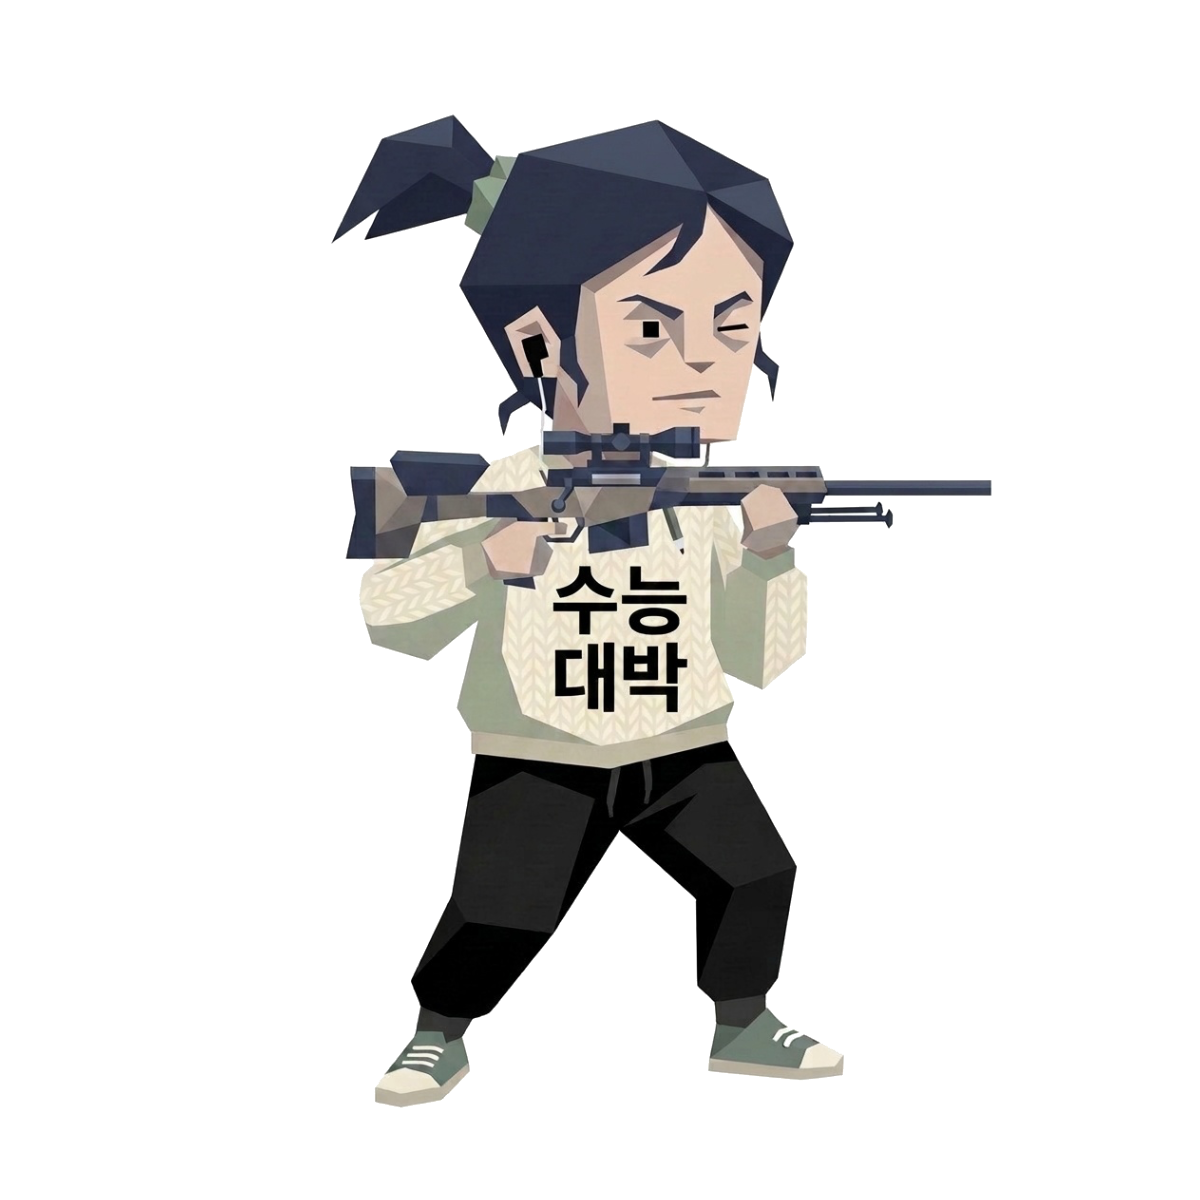
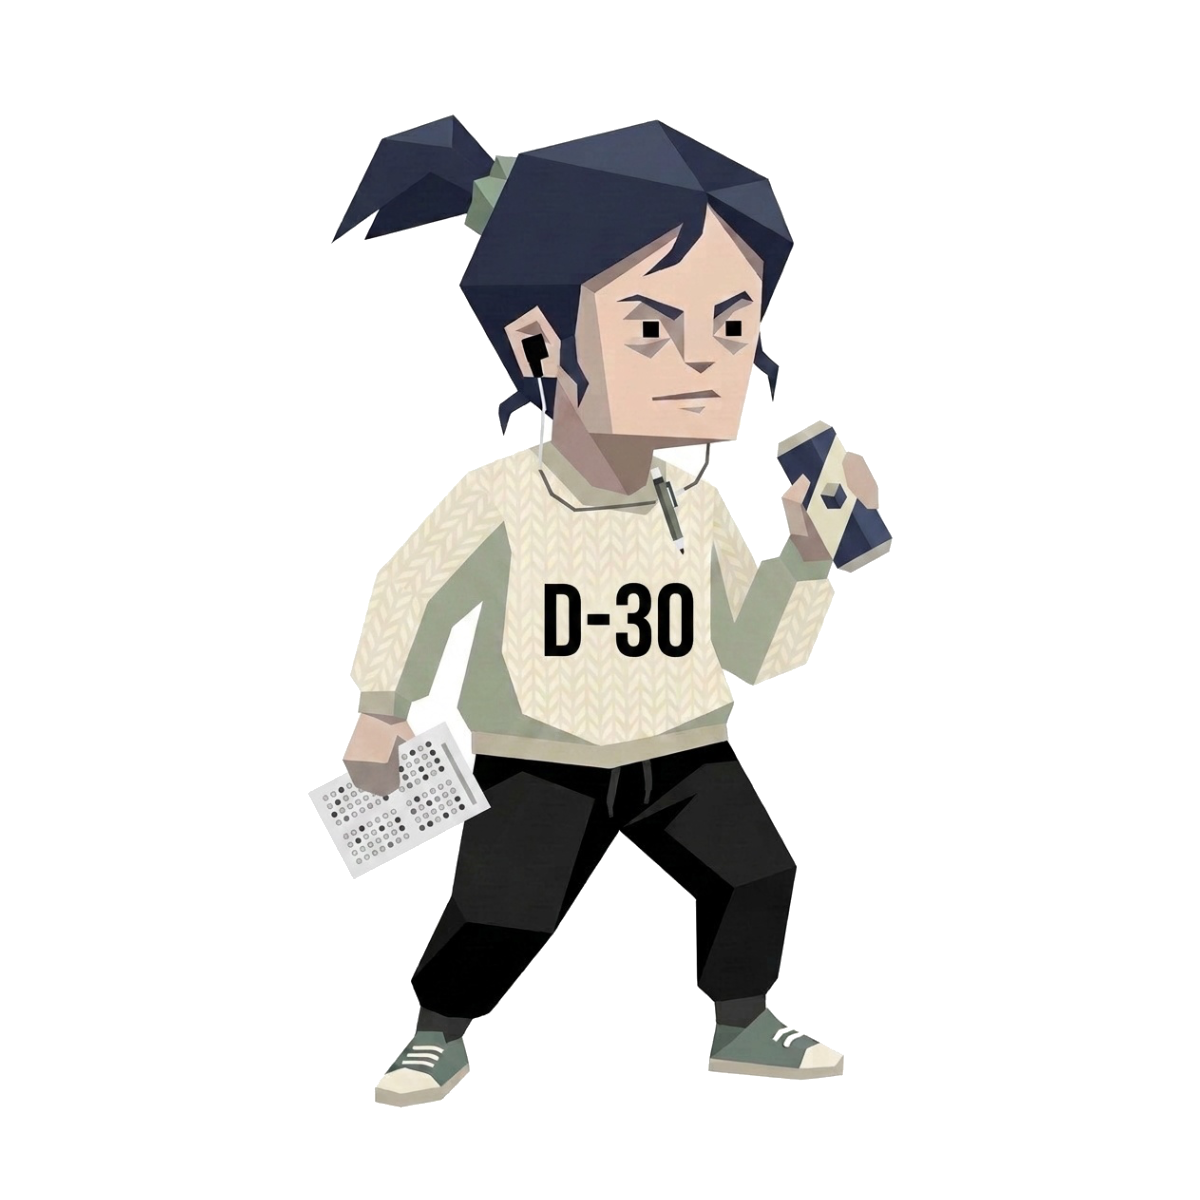
feat(aiming): Q4 문항 교체 + Q6를 결과에 실제로 반영, 정시 두 유형 이미지 정정
Q4를 "원서를 쓰고 나서 가장 후회할 것 같은 건?"으로 바꾸면서 선택지를
한 축 위의 정도 차이가 아니라 서로 다른 두 축의 기피로 재설계했다.
- a 우주상향으로 한 장 날리는 것 → 상향 회피 (agg 0 / floor +1)
- b 수능 잘봤는데 수시 납치되는 것 → 안정 회피 (agg +2 / floor -1)
- c 가고 싶던 대학에 한 번도 못 질러보는 것 → 상향 미련 (agg +4)

Q6(생기부)가 결과를 못 바꾸던 문제를 고쳤다. 전수 2187조합에서 Q6b와 Q6c의
유형 분포가 완전히 같았다(gyogwa 159 / standard 129 / essay 114) — 생기부가
아예 없는 사람도 `rec < MAX_REC`를 통과해 교과 정공법으로 왔기 때문이다.
생기부를 못 챙긴 학생은 내신도 같이 낮은 경우가 많아 교과의 대상이 아니다.
교과 조건을 `rec === 1`로 좁히고 Q6c에 agg +2를 줘서, 수시에 쓸 무기가 없으면
위로 지르고 정시로 받치는 쪽으로 가게 했다.

실측(전수 2187조합, Q6c 729조합 기준):
- 교과 정공법  159건 → 0건
- 정시 올인형   18건 → 87건
- 스나이퍼      48건 → 96건
- 논술 올인형   24건 → 69건
- 도전 저격형   87건 → 132건
10개 유형 최소 5.3% / 최대 15.1%, 배분 합 6 위반 0건.
사다리 임계값은 96가지 스윕에서 현행값이 최적이라 건드리지 않았다.

floor에 음수가 생기면서 공유 링크 `?f=-1`이 clamp 하한 0에 걸려 잘리던 문제도
같이 고쳤다(MIN_FLOOR 신설). 안 고치면 그 사람들의 링크·새로고침이 기본값 2로
떨어져 화면에서 봤던 배분과 달라진다.

정시 올인형과 정시 믿는 스나이퍼의 그림이 서로 바뀌어 있어 맞바꿨다.
OG 카드는 유형 이름이 이미지에 구워져 있어 그림 패널(41,41)-(538,588)만 교환했다.

Claude-Session: https://claude.ai/code/session_017Sz2DNCJQe2oo6HqaVsxgr

Changed region(s): [[0.2467, 0.3392, 0.8325, 0.74], [0.5858, 0.2467, 0.6167, 0.3083]]

diff --git a/src/data/aimingStrategy.ts b/src/data/aimingStrategy.ts
@@ -77,7 +77,11 @@ export type Mix = Record<TierKey, number>;
    칸을 쪼개는 일이 아니라 **축을 늘리는 일**이다.
 
    ⚠ agg와 floor는 반드시 분리한다. "안 갈 곳은 쓰기 싫다"가 공격성을 올리면
-   정시도 약하고 안정권도 못 쓰는 가장 위험한 학생이 공격형으로 분류된다. */
+   정시도 약하고 안정권도 못 쓰는 가장 위험한 학생이 공격형으로 분류된다.
+
+   📌 floor는 **음수도 준다**(Q4b 수시 납치). 안정을 "덜 받아들인다"는 답이 있어야
+   Q2 하나로만 안정 장수가 정해지는 걸 막을 수 있다. MAX_FLOOR는 선택지별 최댓값의
+   합이라 음수를 넣어도 6으로 유지된다. */
 
 export type Option = {
   id: string;
@@ -132,11 +136,17 @@ export const QUESTIONS: Question[] = [
   },
   {
     id: "q4",
-    text: "6장을 쓸 때 어느 쪽이 더 아까울 것 같나요?",
+    /* ⚠ 세 선택지가 한 줄 위에 놓인 정도 차이가 아니다.
+       a는 **상향 회피**(agg를 안 올린다), b는 **안정 회피**(floor를 깎는다),
+       c는 **상향 미련**(agg 최대)이다. a와 b는 방향이 반대인 두 축의 기피라서
+       가운데 칸을 "반반"으로 두던 예전 문항보다 답이 갈린다. */
+    text: "원서를 쓰고 나서 가장 후회할 것 같은 건?",
     options: [
-      { id: "a", label: "안 될 곳에 써서 한 장 버리는 것", agg: 0, floor: 1, intv: 0, gyo: 0, rec: 0 },
-      { id: "b", label: "반반이에요", agg: 2, floor: 0, intv: 0, gyo: 0, rec: 0 },
-      { id: "c", label: "내가 정말 가고 싶은 곳에 원서 못 넣고 후회하는 것", agg: 4, floor: 0, intv: 0, gyo: 0, rec: 0 },
+      { id: "a", label: "우주상향으로 가능성 낮은 데 질러서\n한 장 날리는 것", agg: 0, floor: 1, intv: 0, gyo: 0, rec: 0 },
+      /* 수시 납치가 무섭다 = 안정권에 붙어서 정시 길이 막히는 게 싫다는 뜻이다.
+         공격성보다 **안정 수용도(floor)를 깎는 답**이라 floor를 음수로 준다. */
+      { id: "b", label: "수능 잘봤는데 수시 납치되는 것", agg: 2, floor: -1, intv: 0, gyo: 0, rec: 0 },
+      { id: "c", label: "가고 싶던 대학에 한 번도 못 질러보는 것", agg: 4, floor: 0, intv: 0, gyo: 0, rec: 0 },
     ],
   },
   {
@@ -154,7 +164,11 @@ export const QUESTIONS: Question[] = [
     options: [
       { id: "a", label: "3년 동안 꾸준히 쌓아왔어요", agg: 0, floor: 0, intv: 0, gyo: 0, rec: 2 },
       { id: "b", label: "보통은 하는 것 같아요", agg: 0, floor: 0, intv: 0, gyo: 0, rec: 1 },
-      { id: "c", label: "딱히 내세울 게 없어요..ㅜ", agg: 0, floor: 0, intv: 0, gyo: 0, rec: 0 },
+      /* ⚠ 생기부를 못 챙긴 학생은 내신도 같이 낮은 경우가 많다. 그래서 이 답은
+         "교과로 안전하게 간다"가 아니라 **수시에 쓸 무기가 없다**는 신호로 읽는다.
+         수시로 확보할 게 없으면 위로 지르고 정시로 받치는 쪽이 맞아서 agg를 올린다.
+         (교과 갈래에서 빼는 처리는 decideType ④에 있다) */
+      { id: "c", label: "딱히 내세울 게 없어요..ㅜ", agg: 2, floor: 0, intv: 0, gyo: 0, rec: 0 },
     ],
   },
   {
@@ -174,6 +188,12 @@ const maxOf = (key: "agg" | "floor" | "intv" | "gyo" | "rec") =>
 
 export const MAX_AGG = maxOf("agg");
 export const MAX_FLOOR = maxOf("floor");
+/** floor 최솟값. Q4b가 floor를 깎으므로 **음수가 될 수 있다**.
+ *  공유 링크(`?f=`)를 0 이상으로만 받으면 이 사람들의 배분이 링크에서 되살아나지 않는다. */
+export const MIN_FLOOR = QUESTIONS.reduce(
+  (s, q) => s + Math.min(...q.options.map((o) => o.floor)),
+  0
+);
 export const MAX_INTV = maxOf("intv");
 export const MAX_GYO = maxOf("gyo");
 export const MAX_REC = maxOf("rec");
@@ -527,7 +547,9 @@ export function decideType(
 
   /* ① 올인 — 공격성이 최상위. 논술 여력이 만점이면 논술 올인, 아니면 정시 올인
      ⚠ 경계를 10 → 9로 낮췄다. 10에서는 전수 2187조합 중 45개(2%)만 도달해서
-     사실상 아무도 못 보는 유형이었다. */
+     사실상 아무도 못 보는 유형이었다.
+     ⚠ Q6c에 agg +2를 준 뒤 MAX_AGG가 11 → 13이 됐지만 경계는 9로 **그대로 둔다.**
+     재실측: 9면 정시올인 5.6% / 논술올인 5.3%, 10이면 둘 다 2.7%로 다시 죽는다. */
   if (agg >= 9) return intv >= MAX_INTV ? byId("essayAllIn") : byId("jungsiAllIn");
 
   /* ② 논술 병행 — 대학별고사 여력이 만점이고 위로 갈 의사도 있을 때 */
@@ -538,12 +560,17 @@ export function decideType(
      무기가 둘 다 있으면 학종 쪽이 더 유리하다. */
   if (rec >= MAX_REC && agg >= 2 && agg <= 5) return byId("hakjong");
 
-  /* ④ 교과 정공법 — 내신이 확실히 강하고, 생기부가 최강은 아니고, 위로 크게 지르지 않을 때.
+  /* ④ 교과 정공법 — 내신이 확실히 강하고, 생기부는 중간이고, 위로 크게 지르지 않을 때.
      ⚠ 전엔 `agg >= 1` 하한이 있었는데, 그러면 **내신이 가장 강하면서 올해 꼭 끝내야 하는 사람**
      (Q7a가 agg를 -2 깎는다)이 교과형에 못 왔다. 교과 정공법의 전형적인 대상이라 하한을 없앴다.
-     ⚠ `rec < MAX_REC` 조건이 없으면 이 갈래가 전체의 22%를 먹어버린다(전수 실측).
+     ⚠ 전엔 `rec < MAX_REC`(생기부가 최강만 아니면)였는데, 그러면 **생기부가 아예 없는 사람도
+     교과로 왔다.** 생기부를 못 챙긴 학생은 내신도 같이 낮은 경우가 많아서 교과 정공법의
+     대상이 아니다. 실제로 전수 2187조합에서 Q6b와 Q6c의 결과 분포가 완전히 같았다
+     (gyogwa 159 / standard 129 / essay 114) — 질문을 넣어놓고 답을 안 쓰던 셈이다.
+     그래서 `rec === 1`로 좁혀 Q6를 a=학종 / b=교과 / c=사다리로 완전히 가른다.
+     ⚠ 조건을 느슨하게 두면 이 갈래가 전체의 22%를 먹어버린다(전수 실측).
      질문 하나(3지선다)가 곧 33%라, 무기 갈래는 조건을 두 개 이상 걸어야 한다. */
-  if (gyo >= MAX_GYO && rec < MAX_REC && agg <= 4) return byId("gyogwa");
+  if (gyo >= MAX_GYO && rec === 1 && agg <= 4) return byId("gyogwa");
 
   /* ⑤ 공격성 사다리 */
   if (agg <= 1) return byId("safe");
@@ -552,8 +579,8 @@ export function decideType(
 
   /* 정시 믿는 스나이퍼 — 공격성이 최상위이거나, 7이면서 대학별고사에 쓸 여력이 거의 없을 때.
      ⚠ agg 7은 도전 저격형과 겹치는 구간이다. 정수 경계로만 자르면 이 유형이 agg 8 하나에
-     묶여 4.1%밖에 안 나오고, 7까지 열면 9.4%로 튄다(전수 실측). 그래서 겹치는 구간을
-     **대학별고사 여력**으로 가른다 — 상향을 논술·면접으로 받칠 수 있으면 도전 저격형,
+     묶여 5.8%밖에 안 나오고, 7까지 열면 12.6%로 튄다(2026-09-08 재실측, 현재 8.8%).
+     그래서 겹치는 구간을 **대학별고사 여력**으로 가른다 — 상향을 논술·면접으로 받칠 수 있으면 도전 저격형,
      그럴 여력이 없어 정시로 받쳐야 하면 이 유형이다. 유형의 성격과도 맞는 기준이다. */
   if (agg >= 8 || (agg === 7 && intv <= 1)) return byId("jungsi");
   return byId("aggressive");

diff --git a/src/app/aiming/page.tsx b/src/app/aiming/page.tsx
@@ -2,6 +2,7 @@ import type { Metadata } from "next";
 import {
   MAX_FLOOR,
   MAX_INTV,
+  MIN_FLOOR,
   QUESTIONS,
   STRATEGY_TYPES,
   TIERS,
@@ -113,18 +114,21 @@ export default async function AimingPage({
   /* 배분은 유형만으로 정해지지 않는다. 하향 수용도(f)와 대학별고사 여력(i)이 같이 있어야
      공유받은 사람이 **보낸 사람과 같은 배분**을 본다.
      범위를 벗어난 값은 버린다 — 주소창을 손으로 고쳐도 화면이 깨지지 않아야 한다. */
-  const clamp = (raw: string | null, max: number) => {
+  /* ⚠ 하한을 0으로 박아두면 안 된다. Q4b("수능 잘봤는데 수시 납치되는 것")가 floor를
+     깎기 때문에 floor는 음수가 나온다. 0 미만을 버리면 그 사람들의 공유 링크와 새로고침이
+     기본값(2)으로 떨어져 **화면에서 봤던 배분과 달라진다.** */
+  const clamp = (raw: string | null, min: number, max: number) => {
     if (raw === null) return null;
     const n = Number(raw);
-    if (!Number.isInteger(n) || n < 0 || n > max) return null;
+    if (!Number.isInteger(n) || n < min || n > max) return null;
     return n;
   };
 
   return (
     <AimingClient
       initialType={first("t")}
-      initialFloor={clamp(first("f"), MAX_FLOOR)}
-      initialIntv={clamp(first("i"), MAX_INTV)}
+      initialFloor={clamp(first("f"), MIN_FLOOR, MAX_FLOOR)}
+      initialIntv={clamp(first("i"), 0, MAX_INTV)}
     />
   );
 }
